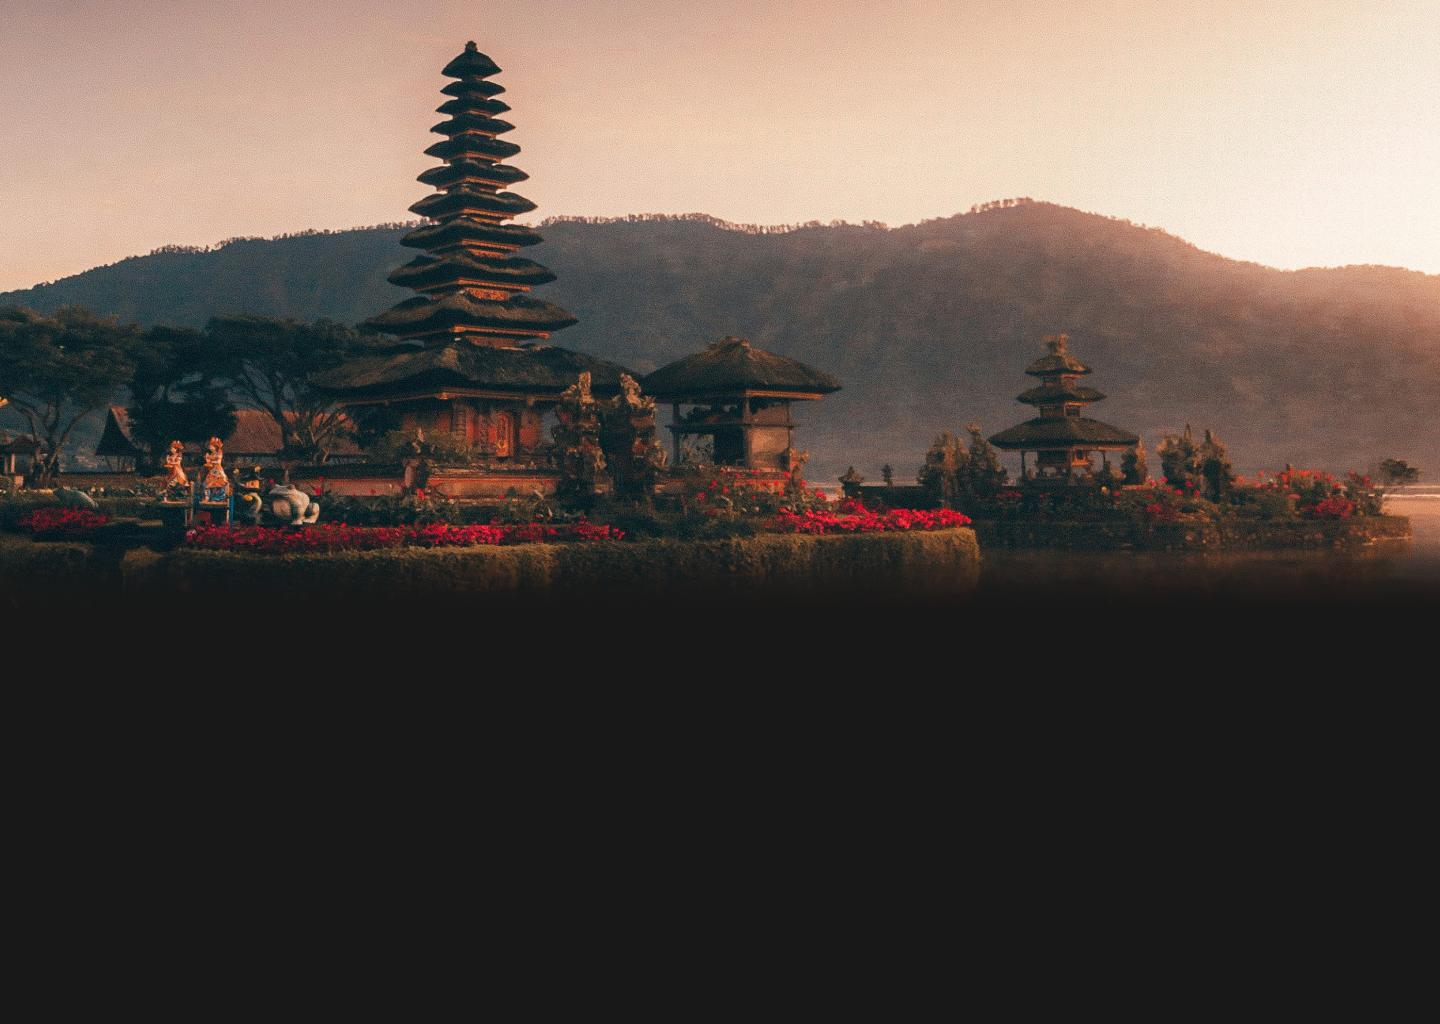
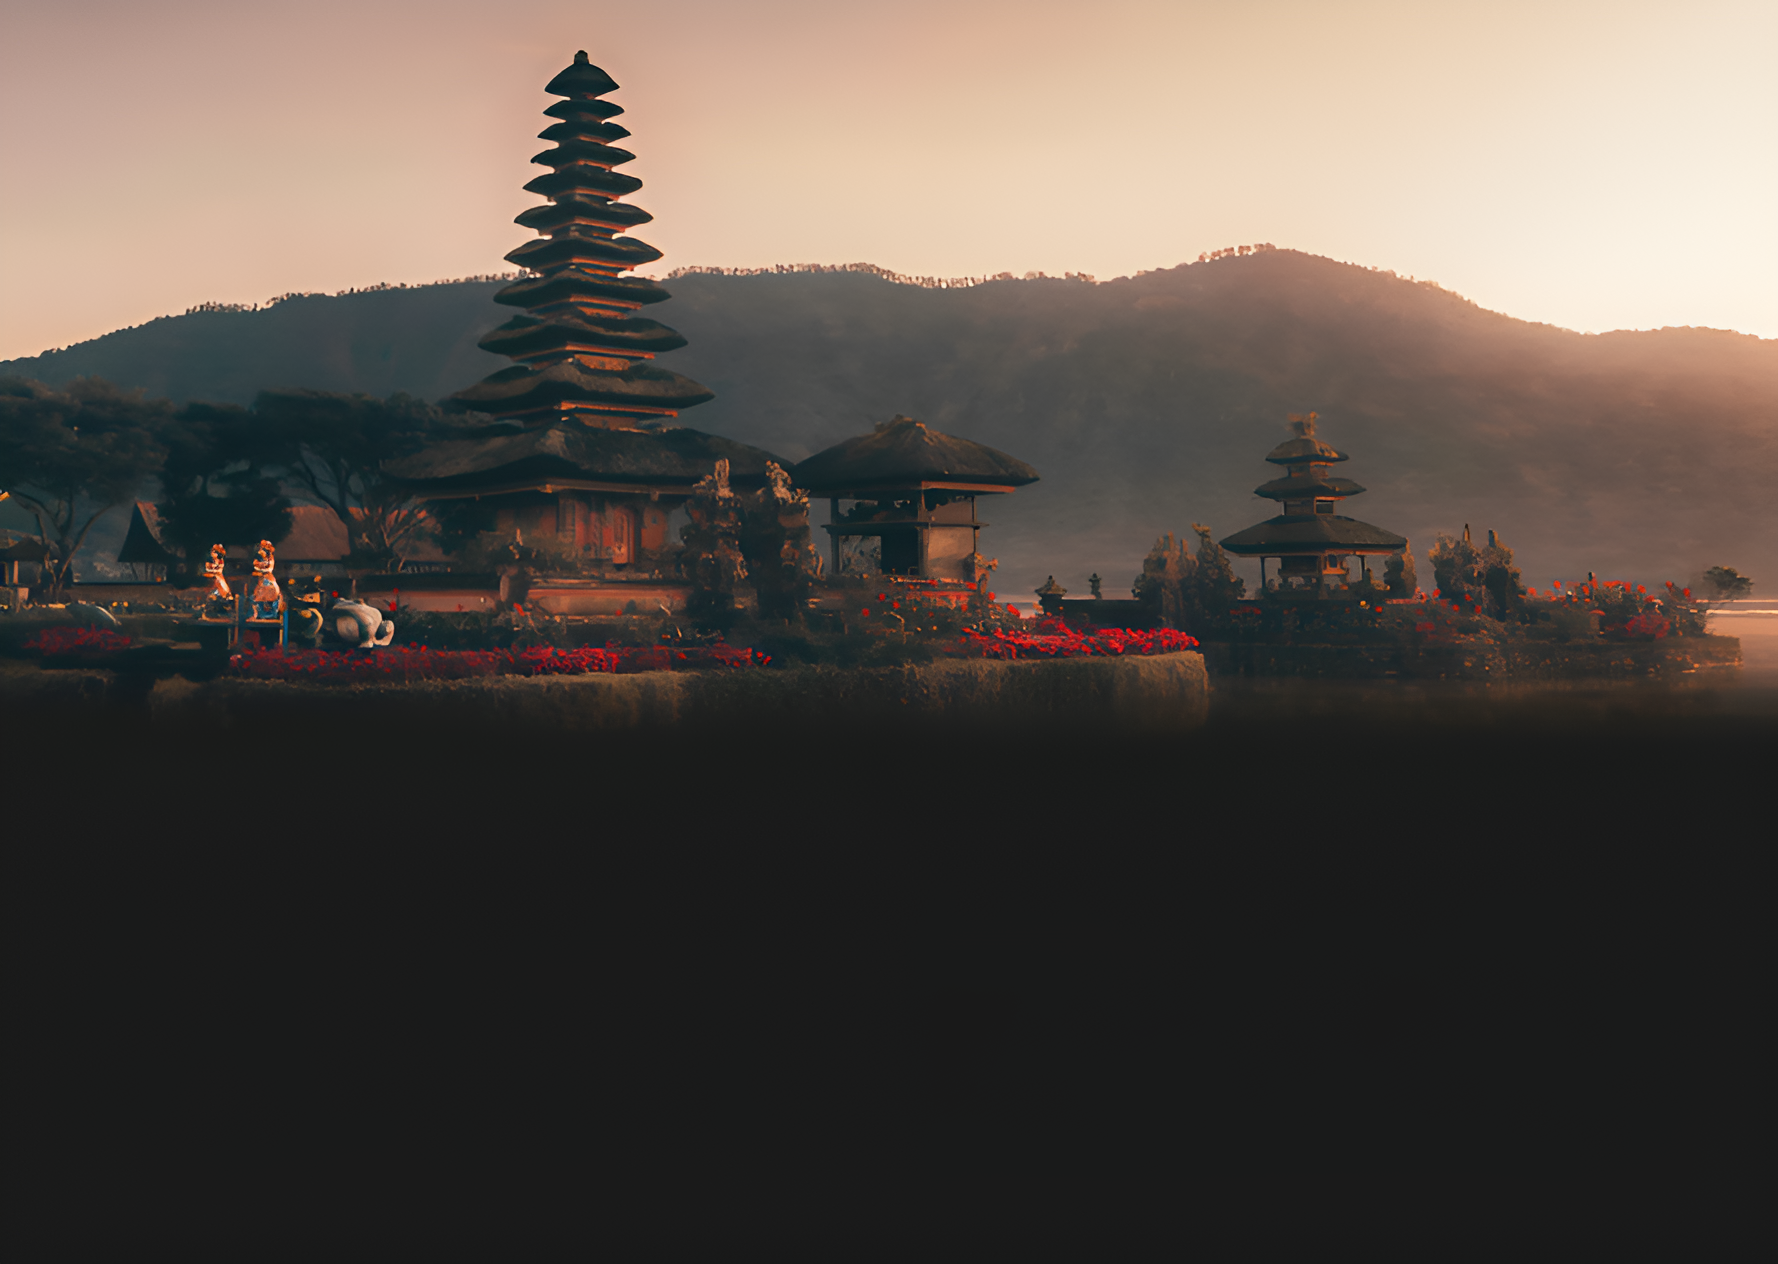
update find + naikkin resolusi gambar

diff --git a/src/desktop2/Find.js b/src/desktop2/Find.js
@@ -7,7 +7,7 @@ export default function Search({ foodList, setFoodList }) {
         } else {
             setFoodList(
                 foodList.filter(food =>
-                    food.name.toLowerCase().includes(event.target.value.toLowerCase())
+                    food.jenis.toLowerCase().includes(event.target.value.toLowerCase())
                 )
             );
         }
@@ -20,7 +20,9 @@ export default function Search({ foodList, setFoodList }) {
                 <option value="all">All</option>
                 <option value="ayam">Ayam</option>
                 <option value="babi">Babi</option>
+                <option value="daging">Daging</option>
                 <option value="sambal">Sambal</option>
+                <option value="Nasi">Nasi</option>
             </select>
         </div>
     );
